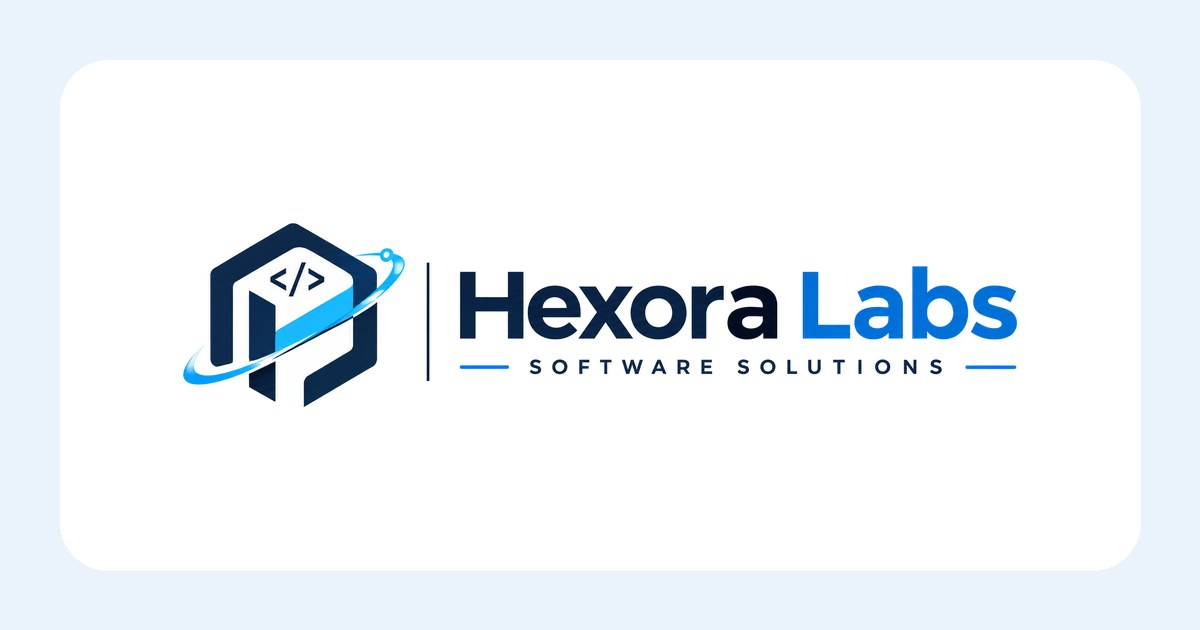
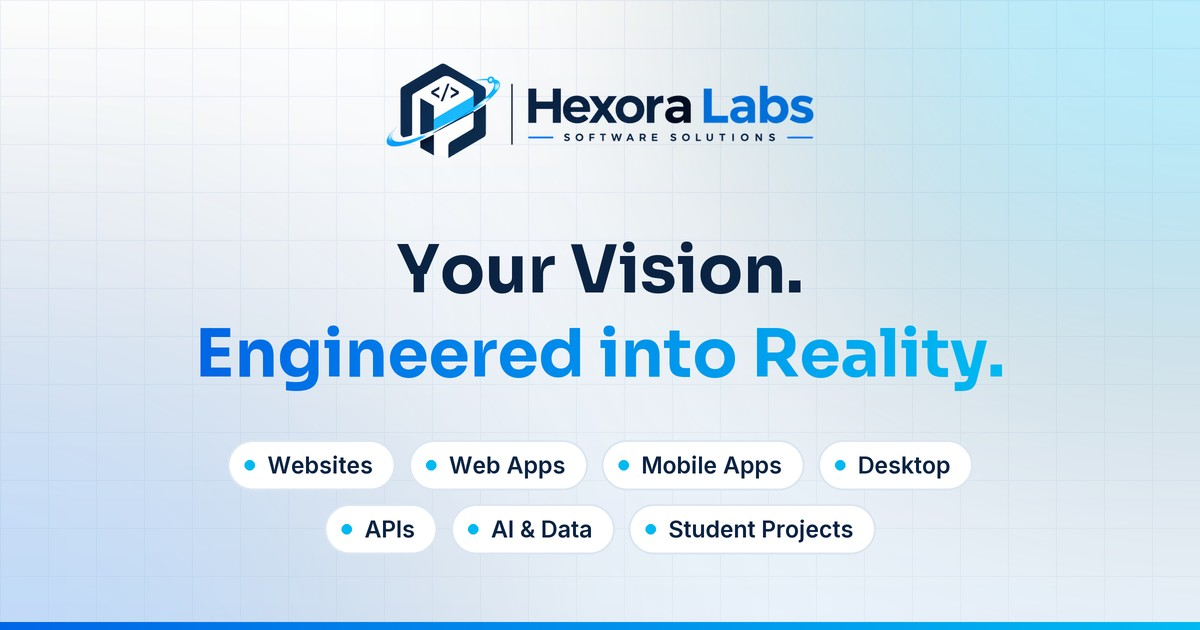
Add branded social preview card for link sharing

diff --git a/frontend/index.html b/frontend/index.html
@@ -32,17 +32,21 @@
       property="og:description"
       content="Your vision, engineered into reality. Modern web, mobile, desktop and AI solutions for students, startups and businesses."
     />
-    <meta property="og:image" content="%VITE_SITE_URL%/og-image.jpg" />
+    <!-- bump ?v= after changing og-image.jpg so WhatsApp/Facebook/Telegram refresh their cached preview -->
+    <meta property="og:image" content="%VITE_SITE_URL%/og-image.jpg?v=2" />
+    <meta property="og:image:secure_url" content="%VITE_SITE_URL%/og-image.jpg?v=2" />
+    <meta property="og:image:type" content="image/jpeg" />
     <meta property="og:image:width" content="1200" />
     <meta property="og:image:height" content="630" />
-    <meta property="og:image:alt" content="Hexora Labs – Software Solutions logo" />
+    <meta property="og:image:alt" content="Hexora Labs – Your Vision. Engineered into Reality." />
     <meta name="twitter:card" content="summary_large_image" />
     <meta name="twitter:title" content="Hexora Labs – Software Solutions" />
     <meta
       name="twitter:description"
       content="Modern web, mobile, desktop and AI solutions for students, startups and businesses."
     />
-    <meta name="twitter:image" content="%VITE_SITE_URL%/og-image.jpg" />
+    <meta name="twitter:image" content="%VITE_SITE_URL%/og-image.jpg?v=2" />
+    <meta name="twitter:image:alt" content="Hexora Labs – Your Vision. Engineered into Reality." />
 
     <!-- Structured data: who we are (search engines / knowledge panels) -->
     <script type="application/ld+json">

diff --git a/scripts/og_image.py b/scripts/og_image.py
@@ -1,0 +1,138 @@
+"""
+Hexora Labs - social preview card (Open Graph image).
+
+Generates frontend/public/og-image.jpg (1200x630), the card shown when the site
+link is shared on WhatsApp, Messenger/Facebook, Telegram, LinkedIn, X, etc.
+Uses the site's own fonts (Sora, Inter from @fontsource-variable) and the
+processed logo. Key content stays near the centre, because some apps crop the
+card to a square thumbnail.
+
+Usage:  python scripts/og_image.py   (also run by scripts/process_assets.py)
+Requires: Pillow (and the npm packages installed, for the fonts)
+"""
+from pathlib import Path
+
+from PIL import Image, ImageDraw, ImageFilter, ImageFont
+
+ROOT = Path(__file__).resolve().parent.parent
+FONTS = ROOT / "node_modules" / "@fontsource-variable"
+LOGO = ROOT / "frontend" / "src" / "assets" / "brand" / "logo-horizontal.png"
+OUT = ROOT / "frontend" / "public" / "og-image.jpg"
+
+W, H = 1200, 630
+S = 2  # supersample for smooth edges
+NAVY = (11, 35, 67)
+PRIMARY = (0, 102, 230)
+CYAN = (0, 185, 241)
+ICE = (234, 243, 252)
+LINE = (219, 230, 242)
+MUTED = (75, 90, 110)
+
+HEADLINE_1 = "Your Vision."
+HEADLINE_2 = "Engineered into Reality."
+PILLS = ["Websites", "Web Apps", "Mobile Apps", "Desktop", "APIs", "AI & Data", "Student Projects"]
+
+
+def font(family: str, size: int, weight: int) -> ImageFont.FreeTypeFont:
+    f = ImageFont.truetype(str(FONTS / family / "files" / f"{family}-latin-wght-normal.woff2"), size * S)
+    f.set_variation_by_axes([weight])
+    return f
+
+
+def glow(canvas: Image.Image, center, radius, color, alpha):
+    layer = Image.new("RGBA", canvas.size, (0, 0, 0, 0))
+    cx, cy = center
+    ImageDraw.Draw(layer).ellipse([cx - radius, cy - radius, cx + radius, cy + radius], fill=(*color, alpha))
+    canvas.alpha_composite(layer.filter(ImageFilter.GaussianBlur(radius * 0.45)))
+
+
+def gradient_text(canvas, xy, text, f, c1, c2):
+    """Draw text filled with a horizontal c1→c2 gradient."""
+    x, y = xy
+    l, t, r, b = f.getbbox(text)
+    mask = Image.new("L", (r, b), 0)
+    ImageDraw.Draw(mask).text((0, 0), text, font=f, fill=255)
+    grad = Image.new("RGBA", (r, b))
+    gd = ImageDraw.Draw(grad)
+    for i in range(r):
+        k = i / max(r - 1, 1)
+        gd.line([(i, 0), (i, b)], fill=tuple(round(c1[j] + (c2[j] - c1[j]) * k) for j in range(3)) + (255,))
+    canvas.paste(grad, (x, y), mask)
+
+
+def main():
+    w, h = W * S, H * S
+    img = Image.new("RGBA", (w, h), (255, 255, 255, 255))
+    d = ImageDraw.Draw(img)
+
+    # soft vertical wash white → ice
+    for yy in range(h):
+        k = yy / (h - 1)
+        d.line([(0, yy), (w, yy)], fill=tuple(round(255 + (ICE[j] - 255) * k) for j in range(3)) + (255,))
+
+    # faint technical grid
+    grid = Image.new("RGBA", (w, h), (0, 0, 0, 0))
+    gd = ImageDraw.Draw(grid)
+    step = 48 * S
+    for gx in range(0, w, step):
+        gd.line([(gx, 0), (gx, h)], fill=(*LINE, 120), width=S)
+    for gy in range(0, h, step):
+        gd.line([(0, gy), (w, gy)], fill=(*LINE, 120), width=S)
+    img.alpha_composite(grid)
+
+    # brand glows
+    glow(img, (w * 0.92, h * 0.05), 360 * S, CYAN, 70)
+    glow(img, (w * 0.05, h * 1.0), 380 * S, PRIMARY, 45)
+
+    # logo lockup
+    logo = Image.open(LOGO).convert("RGBA")
+    lw = 430 * S
+    logo = logo.resize((lw, round(logo.height * lw / logo.width)), Image.LANCZOS)
+    img.alpha_composite(logo, ((w - logo.width) // 2, 62 * S))
+
+    # headline
+    f_head = font("sora", 66, 700)
+    y1 = 228 * S
+    t1 = HEADLINE_1
+    bw = d.textlength(t1, font=f_head)
+    d.text(((w - bw) / 2, y1), t1, font=f_head, fill=NAVY)
+    t2 = HEADLINE_2
+    bw2 = d.textlength(t2, font=f_head)
+    gradient_text(img, (round((w - bw2) / 2), y1 + 84 * S), t2, f_head, PRIMARY, CYAN)
+
+    # service pills (two centred rows)
+    f_pill = font("inter", 23, 600)
+    pad_l, pad_r, pill_h, gap = 40 * S, 22 * S, 50 * S, 14 * S
+    dot_x, dot_r = 22 * S, 5 * S
+    # vertical centre from the font's cap height, so every label sits on the same line
+    cap_top, cap_bottom = f_pill.getbbox("H")[1], f_pill.getbbox("H")[3]
+    rows = [PILLS[:4], PILLS[4:]]
+    py = 440 * S
+    for row in rows:
+        widths = [d.textlength(p, font=f_pill) + pad_l + pad_r for p in row]
+        total = sum(widths) + gap * (len(row) - 1)
+        px = (w - total) / 2
+        for label, pw in zip(row, widths):
+            cy = py + pill_h / 2
+            d.rounded_rectangle([px, py, px + pw, py + pill_h], radius=pill_h // 2,
+                                fill=(255, 255, 255, 255), outline=LINE, width=2 * S)
+            d.ellipse([px + dot_x - dot_r, cy - dot_r, px + dot_x + dot_r, cy + dot_r], fill=CYAN)
+            d.text((px + pad_l, cy - (cap_top + cap_bottom) / 2), label, font=f_pill, fill=NAVY)
+            px += pw + gap
+        py += pill_h + 14 * S
+
+    # bottom accent bar
+    bar = Image.new("RGBA", (w, 8 * S))
+    bd = ImageDraw.Draw(bar)
+    for i in range(w):
+        k = i / (w - 1)
+        bd.line([(i, 0), (i, 8 * S)], fill=tuple(round(PRIMARY[j] + (CYAN[j] - PRIMARY[j]) * k) for j in range(3)) + (255,))
+    img.alpha_composite(bar, (0, h - 8 * S))
+
+    out = img.resize((W, H), Image.LANCZOS).convert("RGB")
+    out.save(OUT, quality=90, optimize=True, progressive=True)
+    print(f"  {OUT.relative_to(ROOT)}  {OUT.stat().st_size / 1024:.1f} KB")
+
+
+if __name__ == "__main__":
+    main()

diff --git a/scripts/process_assets.py b/scripts/process_assets.py
@@ -6,10 +6,10 @@ web-optimised derivatives:
 
   frontend/src/assets/brand/logo-horizontal.webp   transparent horizontal lockup (nav, footer)
   backend/src/logo.png                    logo for the PDF header
-  src/assets/brand/logo-mark.webp         transparent icon mark
-  src/assets/brand/logo-badge.webp        circular badge, transparent outside the ring
-  public/favicon.ico, favicon-16/32.png, apple-touch-icon.png, icon-192/512.png
-  public/og-image.jpg                     1200x630 Open Graph preview
+  frontend/src/assets/brand/logo-mark.webp         transparent icon mark
+  frontend/src/assets/brand/logo-badge.webp        circular badge, transparent outside the ring
+  frontend/public/favicon.ico, favicon-16/32.png, apple-touch-icon.png, icon-192/512.png
+  frontend/public/og-image.jpg                     1200x630 social preview card (scripts/og_image.py)
 
 Background removal uses a "colour-to-alpha" against white so anti-aliased edges
 stay smooth, and keeps the intentional white face INSIDE the hexagon mark by
@@ -150,12 +150,10 @@ b = b.crop((int(cx - r - 2), int(cy - r - 2), int(cx + r + 3), int(cy + r + 3)))
 b.resize((640, 640), Image.LANCZOS).save(OUT_ASSETS / "logo-badge.webp", "WEBP", quality=90, method=6)
 
 # ---------------------------------------------------------------- Open Graph image
-og = Image.new("RGBA", (1200, 630), (234, 243, 252, 255))
-d = ImageDraw.Draw(og)
-d.rounded_rectangle([60, 60, 1140, 570], radius=48, fill=(255, 255, 255, 255))
-logo = fit_width(lockup, 840)
-og.alpha_composite(logo, ((1200 - logo.width) // 2, (630 - logo.height) // 2))
-og.convert("RGB").save(OUT_PUBLIC / "og-image.jpg", quality=88, optimize=True, progressive=True)
+# Social preview card (logo + tagline + services), see scripts/og_image.py
+import runpy  # noqa: E402
+
+runpy.run_path(str(Path(__file__).with_name("og_image.py")), run_name="__main__")
 
 print("Assets generated:")
 for p in sorted(list(OUT_ASSETS.iterdir()) + [q for q in OUT_PUBLIC.iterdir() if q.is_file()]):
